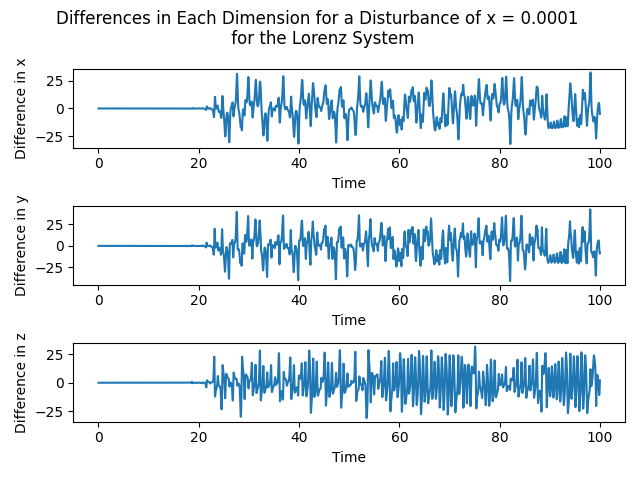
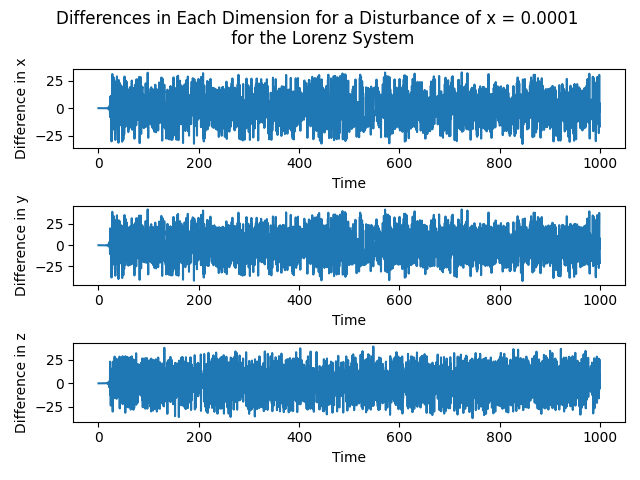
modelling

diff --git a/run.py b/run.py
@@ -22,7 +22,7 @@ init = init_lorenz
 
 # step
 dt = 0.01
-num_steps_to_stop = 10000 # the number of steps that the simulation goes through before stopping
+num_steps_to_stop = 100000 # the number of steps that the simulation goes through before stopping
 
 params_custom = [] # choose your own parameters
 
